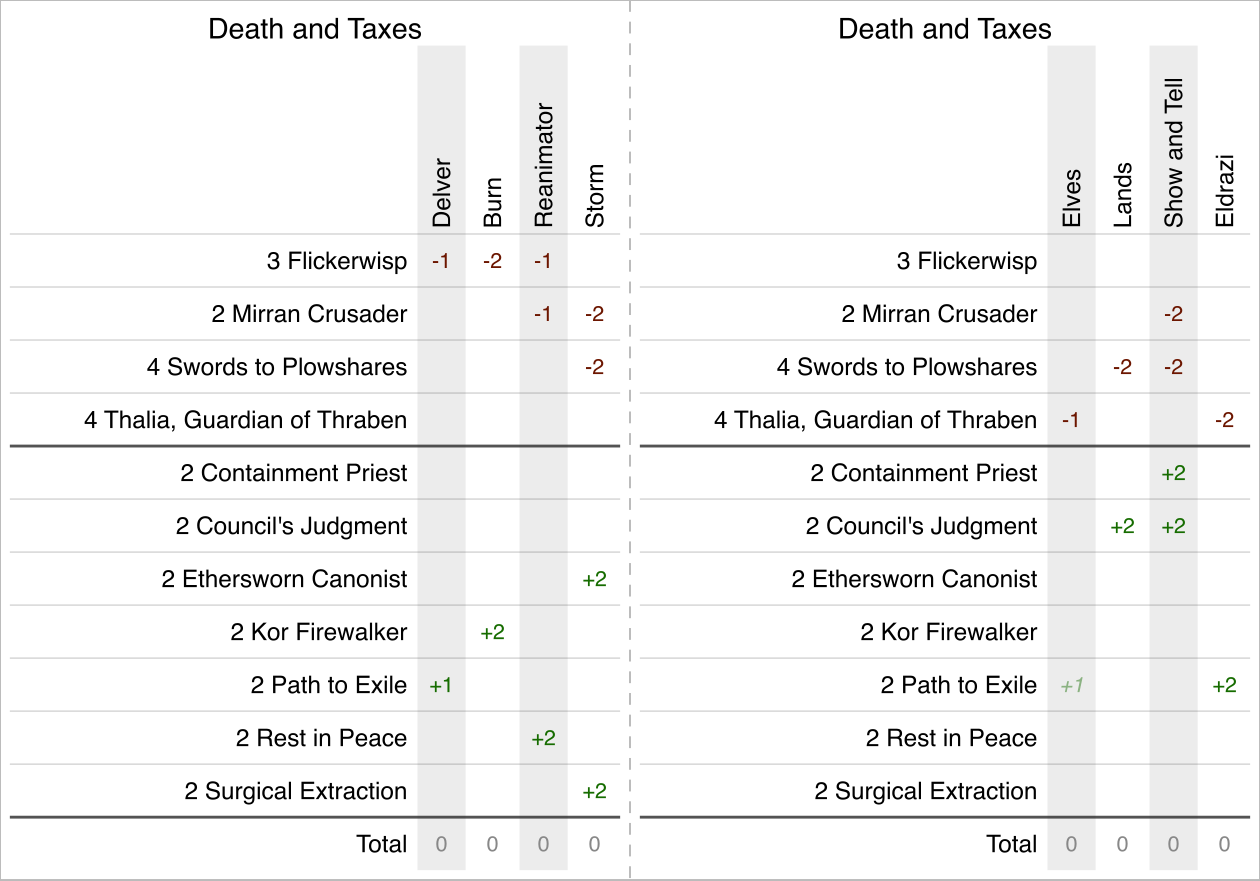
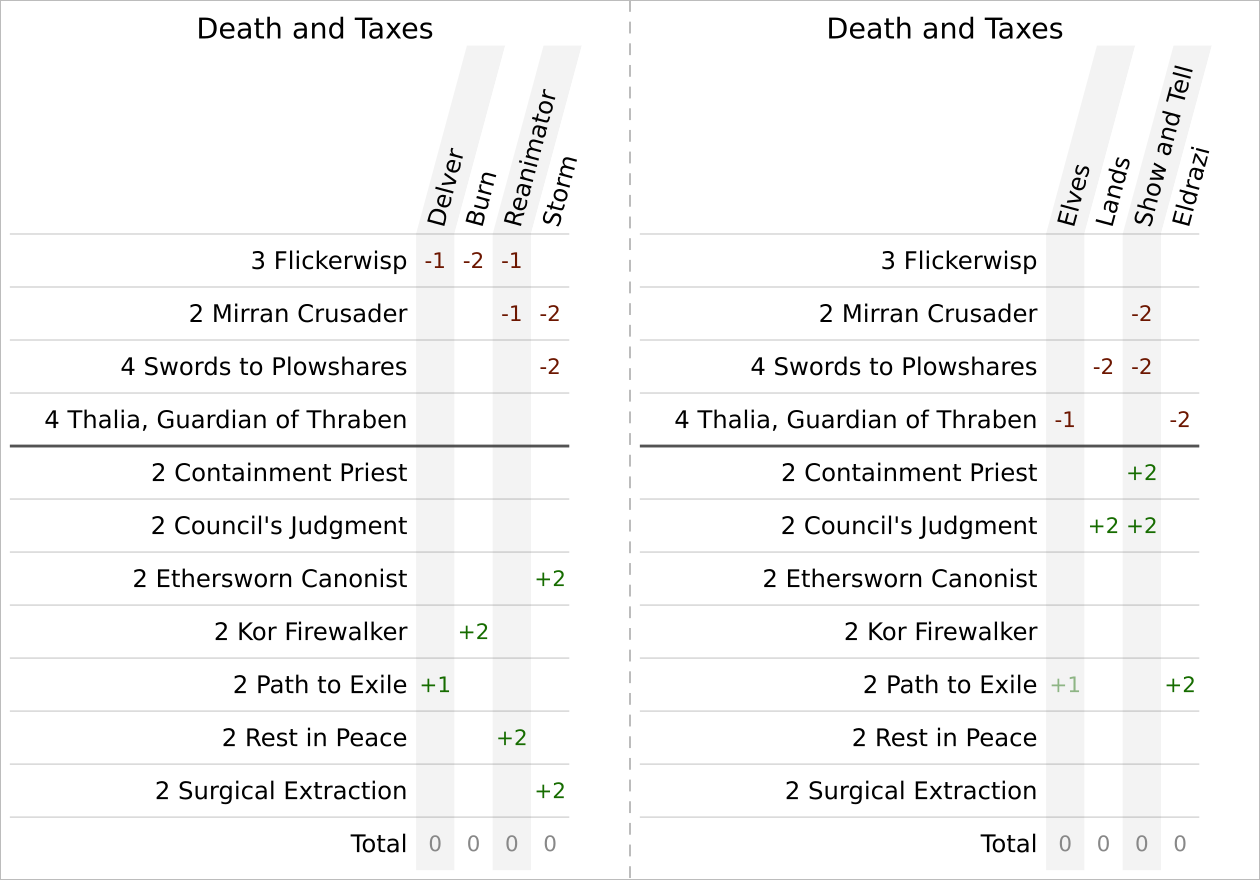
Support single-count templates and printable matchup notes (#10)

diff --git a/guide.js b/guide.js
@@ -3,14 +3,15 @@
 /**
  * Parse sideboard data into an array of records. Accepts two layouts, as CSV or TSV:
  *   long:   deck · opponent · card · maindeck (1/0) · delta, one row per change
- *   matrix: md · sb · <deck name> · opponent columns, as kept in a spreadsheet.
+ *   matrix: count · Maindeck · opponent columns, then a Sideboard section.
+ *   Legacy md · sb · Card matrices are also accepted.
  * Anything else, like a spreadsheet tab that isn't a guide, gives no records.
  */
 function parseData(text) {
   const rows = toRows(text);
   while (rows.length && !rows[0].some(c => c)) rows.shift();
   const layout = rows[0]?.[0].toLowerCase();
-  if (layout === 'md') return parseMatrix(rows);
+  if (layout === 'md' || /^maindeck$/i.test(rows[0]?.[1] ?? '')) return parseMatrix(rows);
   if (layout === 'deck') return parseLong(rows.slice(1));
   return [];
 }
@@ -39,7 +40,9 @@ function toRows(text) {
   }
   row.push(cell);
   rows.push(row);
-  return rows.map(r => r.map(c => c.trim()));
+  // Invisible spacers keep unused Google Sheets headers inclined. They are
+  // formatting placeholders, not matchup names or note content.
+  return rows.map(r => r.map(c => c.trim().replace(/^\u200b+$/, '')));
 }
 
 /**
@@ -77,10 +80,12 @@ function parseLong(rows) {
  */
 function parseMatrix(rows) {
   const header = rows[0];
+  const singleCount = /^maindeck$/i.test(header[1] ?? '');
+  const nameColumn = singleCount ? 1 : 2;
 
   const columns = [];
   let face = 0;
-  for (let i = 3; i < header.length; i++) {
+  for (let i = nameColumn + 1; i < header.length; i++) {
     if (header[i]) columns.push({ column: i, opponent: header[i], face });
     else if (columns.at(-1)?.face === face) face++;
   }
@@ -89,19 +94,29 @@ function parseMatrix(rows) {
   // Card-less records keep every opponent column, in header order, even without changes
   const records = columns.map(c => ({ deck: '', ...c, card: null }));
   let pastBlankRow = false;
+  let pastTotal = false;
   rows.slice(1).forEach((cells, row) => {
-    if (!cells.some(c => c)) { pastBlankRow = true; return; }
+    if (!cells.some(c => c)) { if (!singleCount) pastBlankRow = true; return; }
     const md   = parseInt(cells[0], 10) || 0;
     const sb   = parseInt(cells[1], 10) || 0;
-    const name = cells[2];
-    if (!name || /^totals?:?$/i.test(name)) return;
+    const name = cells[nameColumn] || '';
+    if (/^sideboard$/i.test(name)) { pastBlankRow = true; return; }
+    if (/^totals?:?$/i.test(name)) { pastTotal = true; return; }
+    if (pastTotal) {
+      // Legacy templates keep instructions below their totals; only the new
+      // sectioned layout treats these rows as printable matchup notes.
+      if (singleCount && (name || columns.some(c => cells[c.column]))) records.push({ deck: '', note: true, row, name,
+        values: columns.map(c => [c.column, cells[c.column] || '']) });
+      return;
+    }
+    if (!name) return;
 
     cells.forEach((value, i) => {
       const column = columnAt.get(i);
       const delta = column && parseDelta(value);
       if (!delta) return;
-      const fromSideboard = pastBlankRow || (sb > 0 && (delta[0] === '+' || md === 0));
-      const count = fromSideboard ? sb || md : md;
+      const fromSideboard = pastBlankRow || (!singleCount && sb > 0 && (delta[0] === '+' || md === 0));
+      const count = singleCount ? md : fromSideboard ? sb || md : md;
       records.push({
         deck:     '',
         ...column,
@@ -142,7 +157,7 @@ function buildPivot(records, deckName) {
 
   const opponents = new Map();
   const faces = [];
-  for (const r of deckRecords) {
+  for (const r of deckRecords.filter(r => !r.note)) {
     if (opponents.has(opponentKey(r))) continue;
     const opponent = { key: opponentKey(r), name: r.opponent };
     opponents.set(opponent.key, opponent);
@@ -158,7 +173,8 @@ function buildPivot(records, deckName) {
   const cards = [...rows.values()].sort((a, b) => b.maindeck - a.maindeck || a.name.localeCompare(b.name));
   const firstSideboard = cards.findIndex(c => !c.maindeck);
 
-  return { cards, faces, firstSideboard };
+  const notes = deckRecords.filter(r => r.note).map(r => ({ label: r.name, values: new Map(r.values) }));
+  return { cards, faces, firstSideboard, notes };
 }
 
 function matchupTotal(cards, opponent) {
@@ -213,19 +229,20 @@ function splitEvenly(opponents, perFace) {
 }
 
 const EXAMPLE_SHEET = [
-  ['md', 'sb', 'Card', 'Delver', 'Burn', 'Reanimator', 'Storm', '', 'Elves', 'Lands', 'Show and Tell', 'Eldrazi'],
-  ['4', '', 'Swords to Plowshares', '', '', '', '-2', '', '', '-2', '-2'],
-  ['4', '', 'Thalia, Guardian of Thraben', '', '', '', '', '', '-1', '', '', '-2'],
-  ['3', '', 'Flickerwisp', '-1', '-2', '-1'],
-  ['2', '', 'Mirran Crusader', '', '', '-1', '-2', '', '', '', '-2'],
-  [],
-  ['', '2', 'Path to Exile', '+1', '', '', '', '', '+1*', '', '', '+2'],
-  ['', '2', 'Kor Firewalker', '', '+2'],
-  ['', '2', 'Rest in Peace', '', '', '+2'],
-  ['', '2', 'Ethersworn Canonist', '', '', '', '+2'],
-  ['', '2', 'Surgical Extraction', '', '', '', '+2'],
-  ['', '2', "Council's Judgment", '', '', '', '', '', '', '+2', '+2'],
-  ['', '2', 'Containment Priest', '', '', '', '', '', '', '', '+2'],
+  ['13', 'Maindeck', 'Delver', 'Burn', 'Reanimator', 'Storm', '', 'Elves', 'Lands', 'Show and Tell', 'Eldrazi'],
+  ['4', 'Swords to Plowshares', '', '', '', '-2', '', '', '-2', '-2'],
+  ['4', 'Thalia, Guardian of Thraben', '', '', '', '', '', '-1', '', '', '-2'],
+  ['3', 'Flickerwisp', '-1', '-2', '-1'],
+  ['2', 'Mirran Crusader', '', '', '-1', '-2', '', '', '', '-2'],
+  ['14', 'Sideboard'],
+  ['2', 'Path to Exile', '+1', '', '', '', '', '+1*', '', '', '+2'],
+  ['2', 'Kor Firewalker', '', '+2'],
+  ['2', 'Rest in Peace', '', '', '+2'],
+  ['2', 'Ethersworn Canonist', '', '', '', '+2'],
+  ['2', 'Surgical Extraction', '', '', '', '+2'],
+  ['2', "Council's Judgment", '', '', '', '', '', '', '+2', '+2'],
+  ['2', 'Containment Priest', '', '', '', '', '', '', '', '+2'],
+  ['', 'Total'],
 ].map(row => row.join('\t')).join('\n');
 
 /**
@@ -265,35 +282,52 @@ function arrangeFaces(sheetFaces, layout, capacity) {
  * textPt then holds the size it prints at, below the one asked for.
  * Faces of one continuous table hug the folds between them.
  */
-function layoutCard(title, { cards, faces: sheetFaces, firstSideboard }, { textPt = TEXT_SIZES_PT.medium, layout = 'every' } = {}) {
+// Wrap note text before rotating it into a matchup column. Each note row
+// reserves enough column width to keep the text at a readable size.
+function noteLines(value) {
+  return String(value).split('\n').flatMap(line => {
+    const parts = [];
+    let rest = line;
+    while (rest.length > 12) {
+      const space = rest.lastIndexOf(' ', 12);
+      const end = space > 0 ? space : 12;
+      parts.push(rest.slice(0, end));
+      rest = rest.slice(end).trimStart();
+    }
+    return [...parts, rest];
+  });
+}
+
+function layoutCard(title, { cards, faces: sheetFaces, firstSideboard, notes = [] }, { textPt = TEXT_SIZES_PT.medium, layout = 'every' } = {}) {
   const { font } = FOLD;
-  const rowLabels = [...cards.map(c => c.label), 'Total'];
+  const noteCol = Math.max(FOLD.col, ...notes.flatMap(n => [...n.values.values()].map(v => noteLines(v).length * 24 + 8)));
+  const rowLabels = [...cards.map(c => c.label), 'Total', ...notes.map(n => n.label)];
   const nameW   = Math.max(...rowLabels.map(l => textWidth(l, font))) + 16;
   const headerH = Math.max(...sheetFaces.flat().map(o => textWidth(o.name, font))) + 16;
   const halfW = 640, sheetH = 894, margin = 10;
   const wanted = textPt * UNITS_PER_PT / font;
   const availableH = sheetH - 2 * margin;
-  if (title && (FOLD.title + headerH + rowLabels.length * FOLD.row) * wanted > availableH) title = '';
+  if (title && (FOLD.title + headerH + (cards.length + 1) * FOLD.row + notes.length * 180) * wanted > availableH) title = '';
   const titleW  = title ? textWidth(title, FOLD.titleFont) : 0;
   const tableY  = (title ? FOLD.title : 0) + headerH;
 
   // 10 units per mm
   const usable = (halfW - 2 * margin) / wanted;
   const namesWidth = names => (names ? nameW : 0);
-  const capacity = names => Math.max(1, Math.floor((usable - namesWidth(names)) / FOLD.col));
+  const capacity = names => Math.max(1, Math.floor((usable - namesWidth(names) - headerH * 0.27) / noteCol));
   const continuous = (layout === 'left' || layout === 'middle');
   const faces = arrangeFaces(sheetFaces, layout, capacity).map((face, fi, all) => ({
     ...face,
     align: !continuous || all.length === 1 ? 'center' : fi === 0 ? 'right' : fi === all.length - 1 ? 'left' : 'center',
   }));
-  const naturalW = Math.max(titleW, ...faces.map(f => namesWidth(f.names) + f.opponents.length * FOLD.col));
-  const naturalH = tableY + rowLabels.length * FOLD.row;
+  const naturalW = Math.max(titleW, ...faces.map(f => namesWidth(f.names) + f.opponents.length * noteCol + headerH * 0.27));
+  const naturalH = tableY + (cards.length + 1) * FOLD.row + notes.length * 180;
   const widthScale = (halfW - 2 * margin) / naturalW;
   const heightScale = availableH / naturalH;
   const scale = Math.min(wanted, widthScale, heightScale);
 
   return {
-    title, cards, faces, firstSideboard, rowLabels, nameW, headerH, tableY, halfW, sheetH, margin, scale,
+    title, cards, faces, firstSideboard, notes, noteCol, rowLabels, nameW, headerH, tableY, halfW, sheetH, margin, scale,
     textPt: scale < wanted * 0.999 ? scale * font / UNITS_PER_PT : textPt,
     shrinkAxis: scale < wanted * 0.999 ? (heightScale <= widthScale ? 'vertically' : 'horizontally') : '',
   };
@@ -315,15 +349,16 @@ function maxTextPt(title, pivot, layout = 'every') {
  * 1 mm margin. An empty title leaves no title row.
  */
 function generateCardSVG(layout) {
-  const { title, cards, faces, firstSideboard, rowLabels, nameW, headerH, tableY, halfW, sheetH, margin, scale } = layout;
+  const { title, cards, faces, firstSideboard, notes, noteCol, rowLabels, nameW, headerH, tableY, halfW, sheetH, margin, scale } = layout;
   const { font } = FOLD;
   const sheetW = halfW * faces.length;
   const faceW = (halfW - 2 * margin) / scale;
   const faceH = (sheetH - 2 * margin) / scale;
-  const row = (faceH - tableY) / rowLabels.length;
+  const noteHeight = 180;
+  const row = (faceH - tableY - notes.length * noteHeight) / (cards.length + 1);
   const namesWidth = names => (names ? nameW : 0);
-  const fill = faces.filter(f => f.opponents.length).map(f => (faceW - namesWidth(f.names)) / f.opponents.length);
-  const col = Math.max(FOLD.col, Math.min(...fill));
+  const fill = faces.filter(f => f.opponents.length).map(f => (faceW - namesWidth(f.names) - headerH * 0.27) / f.opponents.length);
+  const col = Math.max(noteCol, Math.min(...fill));
   const baseline = (ri, size) => tableY + ri * row + (row + size * 0.7) / 2;
 
   const lines = [
@@ -340,31 +375,33 @@ function generateCardSVG(layout) {
     const y0 = margin;
     const namesW = names === 'only' ? faceW : namesWidth(names);
     const tableW = namesW + opponents.length * col;
-    const left   = { left: 0, center: (faceW - tableW) / 2, right: faceW - tableW }[align];
+    const left   = { left: 0, center: (faceW - tableW - headerH * 0.27) / 2, right: faceW - tableW - headerH * 0.27 }[align];
     const colsX  = names === 'right' ? left : left + namesW;
     const [nameX, anchor] = {
       left:  [colsX - 12, 'end'],
       right: [colsX + opponents.length * col + 12, 'start'],
       only:  [faceW / 2, 'middle'],
     }[names] ?? [];
-    const bottom = tableY + (cards.length + 1) * row;
+
 
     lines.push(`  <g transform="translate(${x0.toFixed(1)},${y0.toFixed(1)}) scale(${scale.toFixed(4)})" font-family="sans-serif">`);
     if (title) lines.push(`    <text x="${faceW / 2}" y="${FOLD.title * 0.8}" font-size="${FOLD.titleFont}" text-anchor="middle">${escapeXml(title)}</text>`);
 
     opponents.forEach((opp, i) => {
       const x = colsX + i * col;
-      if (i % 2 === 0) lines.push(`    <rect x="${x + 2}" y="${tableY - headerH}" width="${col - 4}" height="${bottom - tableY + headerH}" fill="#ececec"/>`);
+      if (i % 2 === 0) lines.push(`    <rect x="${x}" y="${tableY}" width="${col}" height="${faceH - tableY}" fill="#f3f3f3"/>`);
+      const slant = headerH * 0.27;
+      lines.push(`    <polygon points="${x},${tableY} ${x + col},${tableY} ${x + col + slant},${tableY - headerH} ${x + slant},${tableY - headerH}" fill="${i % 2 === 0 ? '#f3f3f3' : '#ffffff'}"/>`);
       const tx = x + col / 2 + font * 0.35;
-      lines.push(`    <text x="${tx}" y="${tableY - 8}" transform="rotate(-90,${tx},${tableY - 8})" font-size="${font}">${escapeXml(opp.name)}</text>`);
+      lines.push(`    <text x="${tx}" y="${tableY - 8}" transform="rotate(-75,${tx},${tableY - 8})" font-size="${font}">${escapeXml(opp.name)}</text>`);
     });
 
     rowLabels.forEach((label, ri) => {
-      const y = tableY + ri * row;
-      const thick = (ri === firstSideboard && ri > 0) || ri === cards.length;
+      const y = tableY + Math.min(ri, cards.length + 1) * row + Math.max(0, ri - cards.length - 1) * noteHeight;
+      const thick = ri === firstSideboard && ri > 0;
       lines.push(`    <line x1="${left}" y1="${y}" x2="${left + tableW}" y2="${y}" stroke="rgb(40,40,40)" ` +
         `stroke-width="${thick ? 4 : 2}" stroke-opacity="${thick ? 0.8 : 0.2}"/>`);
-      if (names) lines.push(`    <text x="${nameX}" y="${baseline(ri, font)}" font-size="${font}" text-anchor="${anchor}">${escapeXml(label)}</text>`);
+      if (names) lines.push(`    <text x="${nameX}" y="${ri <= cards.length ? baseline(ri, font) : y + font}" font-size="${font}" text-anchor="${anchor}">${escapeXml(label)}</text>`);
     });
 
     opponents.forEach((opp, i) => {
@@ -381,6 +418,18 @@ function generateCardSVG(layout) {
         `style="${style}">${total > 0 ? '+' : ''}${total}</text>`);
     });
 
+    notes.forEach((note, ni) => {
+      const y = tableY + (cards.length + 1) * row + ni * noteHeight;
+      opponents.forEach((opp, i) => {
+        const value = note.values.get(opp.key);
+        if (!value) return;
+        const x = colsX + (i + 0.5) * col;
+        const parts = noteLines(value);
+        const size = Math.min(24, (col - 8) / parts.length,
+          ...parts.map(part => (noteHeight - 16) / Math.max(1, textWidth(part, 1))));
+        parts.forEach((part, j) => lines.push(`    <text x="${x + (j - (parts.length - 1) / 2) * size}" y="${y + noteHeight - 8}" transform="rotate(-90,${x + (j - (parts.length - 1) / 2) * size},${y + noteHeight - 8})" font-size="${size}">${escapeXml(part)}</text>`));
+      });
+    });
     lines.push(`  </g>`);
   });
 
@@ -424,17 +473,21 @@ function unescapeJs(str) {
  * One deck's guide as matrix CSV, leaving out anything else in its sheet.
  */
 function toMatrixCsv(records, deckName) {
-  const { cards, faces, firstSideboard } = buildPivot(records, deckName);
+  const { cards, faces, firstSideboard, notes } = buildPivot(records, deckName);
   const opponents = faces.flatMap((face, i) => (i ? [null, ...face] : face));
   const line = cells => cells.map(csvCell).join(',');
 
-  const lines = [line(['md', 'sb', 'Card', ...opponents.map(o => o?.name ?? '')])];
+  const countOf = card => card.label.slice(0, card.label.length - card.name.length).trim();
+  const sectionTotal = maindeck => cards.filter(card => Boolean(card.maindeck) === maindeck)
+    .reduce((sum, card) => sum + (parseInt(countOf(card), 10) || 0), 0);
+  const lines = [line([String(sectionTotal(true)), 'Maindeck', ...opponents.map(o => o?.name ?? '')])];
   cards.forEach((card, i) => {
-    if (i === firstSideboard) lines.push('');
-    const count = card.label.slice(0, card.label.length - card.name.length).trim();
+    if (i === firstSideboard) lines.push(line([String(sectionTotal(false)), 'Sideboard']));
     const deltas = opponents.map(o => (o && card.values.get(o.key)) || '');
-    lines.push(line([card.maindeck ? count : '', card.maindeck ? '' : count, card.name, ...deltas]));
+    lines.push(line([countOf(card), card.name, ...deltas]));
   });
+  lines.push(line(['', 'Total', ...opponents.map(o => o ? String(matchupTotal(cards, o)) : '')]));
+  notes.forEach(note => lines.push(line(['', note.label, ...opponents.map(o => o ? note.values.get(o.key) || '' : '')])));
   return lines.join('\n');
 }
 

diff --git a/guide.test.js b/guide.test.js
@@ -98,7 +98,7 @@ assert.deepStrictEqual(cardFaces(layoutCard('', wide, { textPt: 8, layout: 'outs
 
 const twenty = Array.from({ length: 20 }, (_, i) => `Opp ${i}`);
 const twentyWide = buildPivot(parseData(`md,sb,Card,${twenty.join(',')}\n4,,Island,-1`), '');
-assert.deepStrictEqual(cardFaces(layoutCard('', twentyWide, { textPt: 8, layout: 'left' })), [['left', twenty.slice(0, 11)], [null, twenty.slice(11)]]);
+assert.deepStrictEqual(cardFaces(layoutCard('', twentyWide, { textPt: 8, layout: 'left' })), [['left', twenty.slice(0, 10)], [null, twenty.slice(10)]]);
 assert.deepStrictEqual(cardFaces(layoutCard('', twentyWide, { textPt: 8, layout: 'middle' })), [[null, twenty.slice(0, 10)], ['only', []], [null, twenty.slice(10)]]);
 assert.deepStrictEqual(layoutCard('', twentyWide, { textPt: 8, layout: 'middle' }).faces.map(f => f.align), ['right', 'center', 'left']);
 for (const layout of ['left', 'middle']) {
@@ -161,14 +161,41 @@ assert.strictEqual(decodePaste(new URLSearchParams('paste=md,sb,Card,Elves%0A4,,
 
 const withNotes = parseData(`${matrix}\n\t\t\tNotes:\n\t\t\t\tKeep "Jace, the Mind Sculptor" in`);
 const snapshot = toMatrixCsv(withNotes, '');
-assert.doesNotMatch(snapshot, /Notes|Total/);
+assert.doesNotMatch(snapshot, /Notes/);
+assert.match(snapshot, /^5,Maindeck,/);
+assert.match(snapshot, /\n,Total,/);
 assert.deepStrictEqual(labels(roundTrip(withNotes)), labels(pivot));
 assert.deepStrictEqual(faceNames(roundTrip(withNotes)), faceNames(pivot));
 assert.deepStrictEqual(matchup(roundTrip(withNotes), 2), matchup(pivot, 2));
 assert.deepStrictEqual(labels(roundTrip(quoted)), labels(buildPivot(quoted, '')));
 assert.deepStrictEqual(faceNames(roundTrip(wideRecords)), faceNames(wide));
 assert.deepStrictEqual(matchup(roundTrip(long, 'DnT'), 0), { Path: '+1' });
-assert.deepStrictEqual(roundTrip(parseData('md,sb,Card,Elves,Goblins\n2,2,Path to Exile,-2,2')).cards, sameCounts.cards);
+assert.deepStrictEqual(labels(roundTrip(parseData('md,sb,Card,Elves,Goblins\n2,2,Path to Exile,-2,2'))), labels(sameCounts));
+assert.deepStrictEqual(matchup(roundTrip(parseData('md,sb,Card,Elves,Goblins\n2,2,Path to Exile,-2,2')), 1), matchup(sameCounts, 1));
 assert.deepStrictEqual(faceNames(roundTrip(parseData('md,sb,Card,"Bant\tSpirits"\n4,,Island,-1'))), [['Bant\tSpirits']]);
 
+
+// Sectioned sheets keep duplicate cards separate and preserve arbitrary notes,
+// including numbers and signs, through snapshot sharing and SVG/PDF rendering.
+const sectioned = parseData('3,Maindeck,Mirror,Burn\n3,Seal,-1?,-3\n2,Sideboard\n1,Seal,1,\n1,Hydroblast,,1\n,Total,0,-2\n,Plan,Keep 2 mana open,"Wait, then attack"\n,,"<3 & -2",');
+const sectionedPivot = buildPivot(sectioned, '');
+assert.deepStrictEqual(faceNames(sectionedPivot), [['Mirror', 'Burn']]);
+assert.deepStrictEqual(labels(sectionedPivot), ['3 Seal', '1 Hydroblast', '1 Seal']);
+assert.deepStrictEqual(unbalanced(sectionedPivot), []);
+assert.strictEqual(sectionedPivot.notes[0].values.get(2), 'Keep 2 mana open');
+assert.deepStrictEqual(roundTrip(sectioned).notes, sectionedPivot.notes);
+const noteSvg = generateCardSVG(layoutCard('', sectionedPivot));
+assert.ok(noteSvg.includes('Keep 2 mana') && noteSvg.includes('open'));
+assert.ok(noteSvg.includes('&lt;3 &amp; -2'));
+assert.ok(noteSvg.indexOf('Keep 2 mana') > noteSvg.indexOf('>-2</text>'));
+assert.ok(!noteSvg.includes('NaN'));
+
+// Unused preformatted columns do not create opponents, and instructions outside
+// the guide columns are not imported as notes. The header starts on row 1.
+const templateText = '3,Maindeck,Mirror (Play),Mirror (Draw),Stiflenought,Goblins,\u200b,\u200b,\u200b,\u200b\n3,Seal of Cleansing,-1?,-1,,-3\n2,Sideboard\n1,Seal of Cleansing,,,1\n1,Hydroblast,1*,1,,1\n,Total,0,0,1,-2\n,Notes,Keep 2 mana open,,Name Dreadnought\n,Plan,,Play around counters,,Stabilize first\n,,,,,,,Template instructions';
+const finalTemplate = buildPivot(parseData(templateText), '');
+assert.deepStrictEqual(faceNames(finalTemplate), [['Mirror (Play)', 'Mirror (Draw)', 'Stiflenought', 'Goblins']]);
+assert.strictEqual(finalTemplate.notes.length, 2);
+assert.deepStrictEqual(faceNames(roundTrip(parseData(templateText))), faceNames(finalTemplate));
+assert.deepStrictEqual(roundTrip(parseData(templateText)).notes, finalTemplate.notes);
 console.log('ok');

diff --git a/index.html b/index.html
@@ -85,12 +85,12 @@
           <pre id="convert-prompt" class="prompt">Convert the sideboard guide I'm attaching into a CSV for my deck. I'm also attaching my decklist.
 
 Layout:
-- First row: md,sb,Card, then one column per matchup, named after the opposing deck. If the guide differs on the play and on the draw, use two columns, like "Goblins (play)" and "Goblins (draw)".
-- Then one row per card that goes in or out in any matchup: copies in the main deck (md), copies in the sideboard (sb), the card name as written in the decklist, then the change in each matchup.
-- Main deck cards first, then one empty row, then sideboard cards. A card in both the main deck and the sideboard gets a single row in the main deck part, with both counts.
+- Row 1: the total main deck count, Maindeck, then one column per matchup, named after the opposing deck. If the guide differs on the play and on the draw, use two columns, like "Goblins (play)" and "Goblins (draw)".
+- Then one row per card that goes in or out in any matchup: the number of copies in that section, the card name as written in the decklist, then the change in each matchup.
+- Main deck cards first, then a row with the total sideboard count and Sideboard in the second column, then sideboard cards. List a card in both sections twice, with its respective count and swaps.
 - Changes are whole numbers: 2 brings in two copies, -1 takes one out. Never write a + sign. Leave the cell empty when nothing changes.
 - Add * after the number when the guide marks a swap as optional, like 1* or -1*.
-- No total row. Put quotes around any value that contains a comma.
+- Add a Total row after the sideboard cards. After it, optional note rows have an empty count, a note label in the second column and free text under each matchup. Put quotes around values containing commas or newlines.
 - Each matchup should bring in as many cards as it takes out. If the guide doesn't, keep what it says and tell me.
 
 Reply with:

diff --git a/README.md b/README.md
@@ -10,6 +10,8 @@ A free sideboard guide template for Magic: The Gathering and other card games. I
 
 Keep one spreadsheet with a tab per deck, named after the deck. Start from the template linked on the page, share the spreadsheet as "Anyone with the link can view" and add its link: every tab becomes a guide. Edit the sheet and the card catches up within a minute. You can also paste a sheet or CSV directly.
 
+The template uses one count column, with separate Maindeck and Sideboard sections. List a card in both sections twice. The count beside each section title sums its copies; the Total row sums matchup changes. Add labeled note rows below Total to include matchup advice in the printed guide. The header starts on row 1; the template freezes it and the first two columns, with gray and white alternating matchup columns. Existing two-count-column sheets still work.
+
 Each half of the guide is card-sized, 64 × 89.4 mm. Red numbers are cards to take out, green ones cards to bring in, and a `*` marks optional swaps. Guides with many matchups fold into more card-sized faces, with the card names on every face or only once. Download the PDF and print it on A4 or Letter paper at 100% scale. A 100 mm line under the guide lets you check that the printer kept the size.
 
 Already have a guide in another format? The page has a prompt you can give an AI assistant like Claude or ChatGPT to convert it, along with your decklist.
